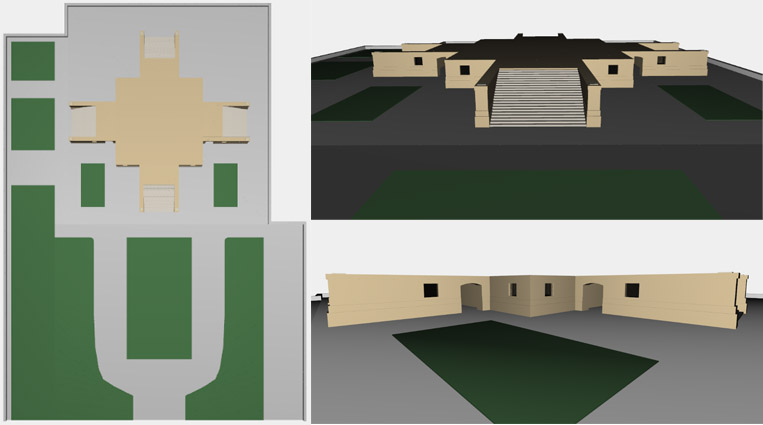
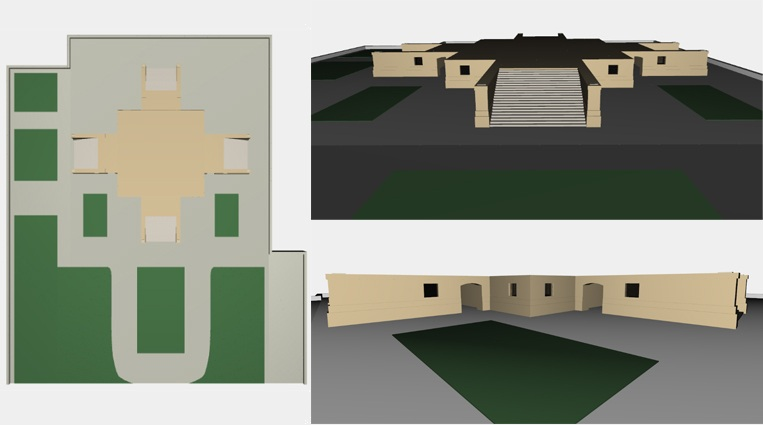
Updated

Changed region(s): [[0.0, 0.0, 0.422, 1.0]]

diff --git a/model.js b/model.js
@@ -14,7 +14,7 @@
 	var baseColor1 = [255/255,248/255,220/255];
 	var baseColor = [255/255,229/255,180/255];
 	var columnsColor = [253/255,245/255,230/255];
-	var groundColor = [250/255,250/255,250/255];
+	var groundColor = [255/255,255/255,236/255];
 
 	var windowsColor = [164/255,211/255,238/255,0.9];
 	var grassColor = [84/255,139/255,84/255];
@@ -436,18 +436,18 @@
 
 			//Ground
 			var ground = [];
-			var ground1 = T([0,1,2])([-21,-23,-1.5])(
-				SIMPLEX_GRID([[0,46],[0,50],[0,1.5]]));
+			var ground1 = T([0,1,2])([-21,-23-30,-1.5])(
+				SIMPLEX_GRID([[0,46],[0,50+30],[0,1.5]]));
 			ground.push(ground1);
-			var ground2 = T([0,1,2])([-35,-23-45,-1.5])(
-				SIMPLEX_GRID([[0,68],[0,45],[0,1.5]]));
-			ground.push(ground2);
-			var ground3 = T([0,1,2])([-21-14,-23,-1.5])(
-				SIMPLEX_GRID([[0,14],[0,23+20],[0,1.5]]));
+			var ground3 = T([0,1,2])([-21-14,-23-30,-1.5])(
+				SIMPLEX_GRID([[0,14],[0,23+20+30],[0,1.5]]));
 			ground.push(ground3);
+			var ground4 = T([0,1,2])([25,-23-30,-1.5])(
+				SIMPLEX_GRID([[0,8],[0,30],[0,1.5]]));
+			ground.push(ground4);
 
-			var goundBorder = T([0,1,2])([33,-23-45,-1.5])(
-				SIMPLEX_GRID([[0,0.6],[0,45],[0,1.5+0.6]]));
+			var goundBorder = T([0,1,2])([33,-23-30,-1.5])(
+				SIMPLEX_GRID([[0,0.6],[0,30],[0,1.5+0.6]]));
 			ground.push(goundBorder);		
 			var goundBorder1 = T([0,1,2])([25,-23,-1.5])(
 				SIMPLEX_GRID([[0,8+0.6],[0,0.6],[0,1.5+0.6]]));
@@ -464,8 +464,8 @@
 			var goundBorder5 = T([0,1,2])([-21-0.6-14,20,-1.5])(
 				SIMPLEX_GRID([[0,14],[0,0.6],[0,1.5+0.6]]));
 			ground.push(goundBorder5);
-			var goundBorder6 = T([0,1,2])([-21-14-0.6,-23-45,-1.5])(
-				SIMPLEX_GRID([[0,0.6],[0,43+45],[0,1.5+0.6]]));
+			var goundBorder6 = T([0,1,2])([-21-14-0.6,-23-30,-1.5])(
+				SIMPLEX_GRID([[0,0.6],[0,43+30],[0,1.5+0.6]]));
 			ground.push(goundBorder6);
 
 			ground = COLOR(groundColor)(STRUCT(ground));
@@ -475,39 +475,37 @@
 			var grass = [];
 
 			var grass1 = COLOR(grassColor)(
-				SIMPLEX_GRID([[0,5.5],[0,10],[0,0.03]]));
+				SIMPLEX_GRID([[0,5.5],[0,10],[0,0.05]]));
 			grass.push(T([0,1])([-18,-19])(grass1));
 			grass.push(T([0,1])([18-5.5,-19])(grass1));
 			var grass2 = COLOR(grassColor)(
-				SIMPLEX_GRID([[0,15],[0,28],[0,0.03]]));
-			grass.push(T([0,1])([-7.5,-28-26])(grass2));
+				SIMPLEX_GRID([[0,11],[0,20],[0,0.05]]));
+			grass.push(T([0,1])([-5.5,-20-26])(grass2));
 			var grass3 = COLOR(grassColor)(
-				SIMPLEX_GRID([[0,10],[0,9],[0,0.03]]));
+				SIMPLEX_GRID([[0,10],[0,9],[0,0.05]]));
 			grass.push(T([0,1])([-21-10-3,20-9-1])(grass3));
 			var grass4 = COLOR(grassColor)(
-				SIMPLEX_GRID([[0,10],[0,12],[0,0.03]]));
+				SIMPLEX_GRID([[0,10],[0,12],[0,0.05]]));
 			grass.push(T([0,1])([-21-10-3,-6])(grass4));
 			var grass5 = COLOR(grassColor)(
-				SIMPLEX_GRID([[0,10],[0,45+9],[0,0.03]]));
-			grass.push(T([0,1])([-21-10-3,-54-14])(grass5));
-			var grass6 = COLOR(grassColor)(
-				SIMPLEX_GRID([[0,10],[0,45+9],[0,0.03]]));
-			grass.push(T([0,1])([-21-10-3,-54-14])(grass6));
+				SIMPLEX_GRID([[0,10],[0,30+9],[0,0.05]]));
+			grass.push(T([0,1])([-21-10-3,-30-9-14])(grass5));
 
 
-			var p0 = [[-16,-26,0],[-15,-26,0],
-				[-15,-28,0],[-15,-60,0],[-6,-62,0],
-				[-6,-63,0],[-6,-68,0]];
+			var p0 = [[-12-0.5,-26,0],[-11-0.5,-26,0],
+				[-11-0.5,-30,0],[-11-0.5,-45,0],
+				[-10-0.5,-50,0],[-9-0.5,-52,0],
+				[-6-0.5,-53,0]];
 			var k0 = makeKnots(p0,2);
 			var c0 = NUBS(S0)(2)(k0)(p0);
-			var p1 = [[-24,-26,0],[-24,-68,0]];
+			var p1 = [[-24,-26,0],[-24,-53,0]];
 			var c1 = BEZIER(S0)(p1);	
 			var vert0 = BEZIER(S1)([c0,c1]);
 
-			p0 = movesPoints(p0,2,0.03);
+			p0 = movesPoints(p0,2,0.05);
 			k0 = makeKnots(p0,2);
 			c0 = NUBS(S0)(2)(k0)(p0);
-			p1 = movesPoints(p1,2,0.03);
+			p1 = movesPoints(p1,2,0.05);
 			c1 = BEZIER(S0)(p1);	
 			var vert1 = BEZIER(S1)([c0,c1]);
 
